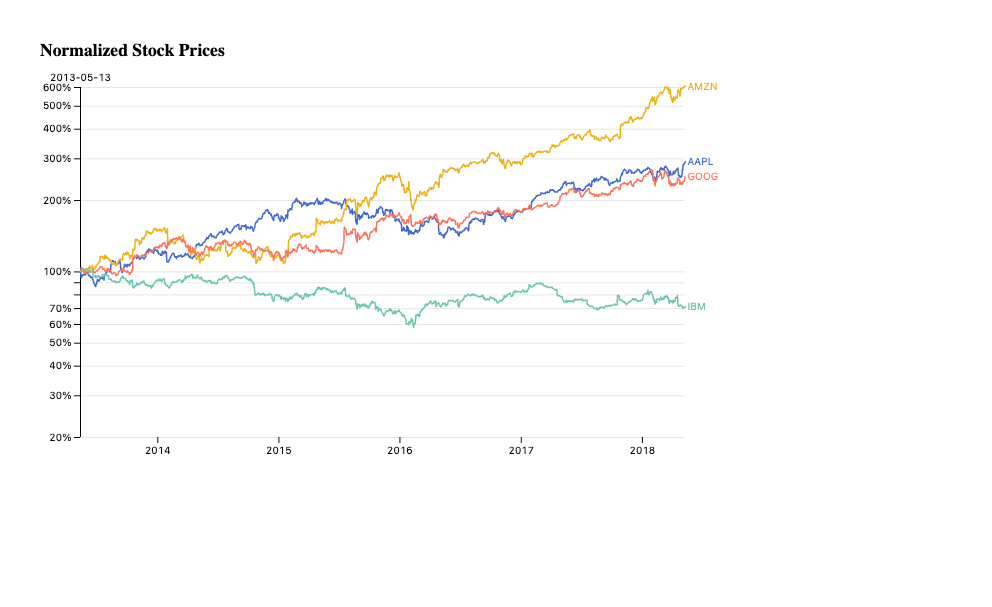
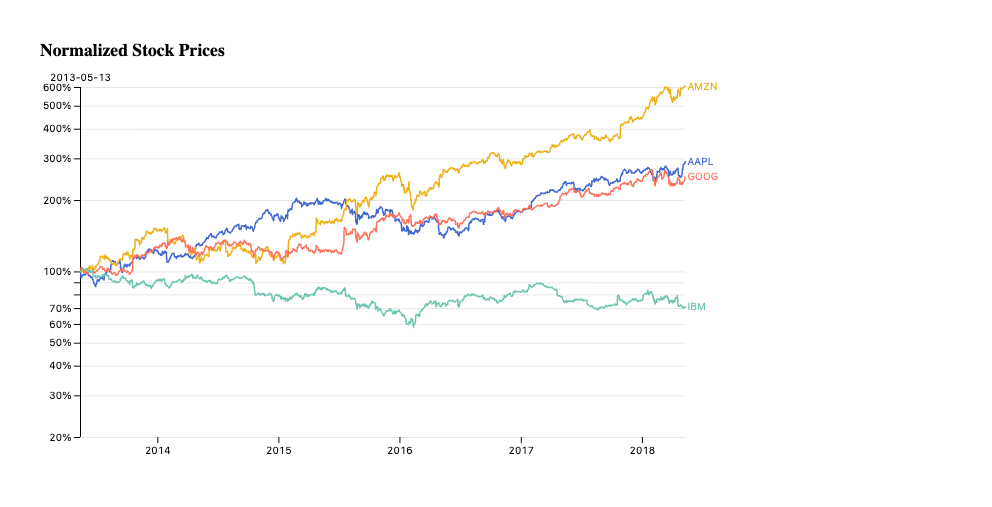
Fix deployed pkgdown site's 404ing home-page widgets

diff --git a/examples/NOTES.md b/examples/NOTES.md
@@ -4,7 +4,7 @@ Each example recreates a page from <https://idl.uw.edu/mosaic/examples/>.
 Verification method: build the R spec, then compare `to_json(spec)`
 against the "JSON" tab on the corresponding mosaic example page (rather
 than rendering, per instruction -- rendering/visual verification is done
-separately). Data comes from `vg_data_url("<file>")` (mosaic's own
+separately). Data comes from `vg_example_url("<file>")` (mosaic's own
 `data/` directory on GitHub) rather than a local copy.
 
 The `.qmd` files themselves now live in `vignettes/articles/` (flat,
@@ -193,7 +193,7 @@ All ten are covered by new tests (`test-merge.R`, `test-plot-defaults.R`,
 ## Examples
 
 Status key: ✅ JSON matches (aside from the cosmetic differences above and
-the intentional `vg_data_url()` vs. relative-path difference) · ⚠ gap/issue
+the intentional `vg_example_url()` vs. relative-path difference) · ⚠ gap/issue
 noted below.
 
 ### Basic Marks & Inputs
@@ -287,7 +287,7 @@ All 47 examples across all 5 gallery categories (Basic Marks & Inputs,
 Data Transformation, Maps & Spatial Data, Multi-View Coordination,
 Density Visualizations) are recreated, and each one's `to_json()`
 output was verified to match mosaic's own reference JSON exactly (aside
-from the intentional `vg_data_url()` vs. relative-path difference and
+from the intentional `vg_example_url()` vs. relative-path difference and
 cosmetic object-key ordering). Along the way, this exercise found and
 fixed 10 real vgplotr bugs (see above), all covered by new regression
 tests, with the full test suite green throughout.

diff --git a/pkgdown/index.md b/pkgdown/index.md
@@ -3,7 +3,7 @@
 
 <!-- README.md is generated from README.Rmd. Please edit that file -->
 
-# {vgplotr}: An R interface to Mosaic vgplot
+# vgplotr: An R interface to Mosaic vgplot
 
 ## What is Mosaic?
 
@@ -30,8 +30,8 @@ Observable Plot to render SVG output.
 
 ## Bringing Mosaic to R
 
-The goal of {vgplotr} is to bring Mosaic functionality to R in a way
-that feels familiar to R users.
+The goal of vgplotr is to bring Mosaic functionality to R in a way that
+feels familiar to R users.
 
 ``` r
 library(vgplotr)
@@ -40,6 +40,9 @@ Births2015 |>
   vg_mark_line(x = ~date, y = ~births, stroke = ~wday) |>
   vg_meta(title = "US Births in 2015") |>
   vg_render(mode = vg_render_mode)
+#> Warning: Data source 'data1' has ordered factor column(s) (wday) -- their level
+#> order isn't preserved when rendered. Set the matching scale's domain explicitly
+#> (e.g., x_domain = levels(data1$wday)) if the order matters.
 ```
 
 <iframe src="reference/figures/README-unnamed-chunk-6-1.html" width="992" height="744" style="border: none;" loading="lazy">
@@ -47,7 +50,7 @@ Births2015 |>
 </iframe>
 
 Here is an example that shows some of the interactive capabilities of
-{vgplotr}:
+vgplotr:
 
 ``` r
 library(vgplotr)
@@ -64,7 +67,7 @@ vg_create() |>
       "in response."
     )
   ) |>
-  vg_data(name = "stocks", file = vg_data_url("stocks.parquet")) |>
+  vg_data(name = "stocks", file = vg_example_url("stocks.parquet")) |>
   vg_data(
     name = "labels",
     query = "SELECT MAX(Date) as Date, ARGMAX(Close, Date) AS Close, Symbol FROM stocks GROUP BY Symbol"

diff --git a/README.md b/README.md
@@ -38,6 +38,9 @@ Births2015 |>
   vg_mark_line(x = ~date, y = ~births, stroke = ~wday) |>
   vg_meta(title = "US Births in 2015") |>
   vg_render(mode = vg_render_mode)
+#> Warning: Data source 'data1' has ordered factor column(s) (wday) -- their level
+#> order isn't preserved when rendered. Set the matching scale's domain explicitly
+#> (e.g., x_domain = levels(data1$wday)) if the order matters.
 ```
 
 <img src="man/figures/README-unnamed-chunk-2-1.png" alt="" width="100%" />
@@ -60,7 +63,7 @@ vg_create() |>
       "in response."
     )
   ) |>
-  vg_data(name = "stocks", file = vg_data_url("stocks.parquet")) |>
+  vg_data(name = "stocks", file = vg_example_url("stocks.parquet")) |>
   vg_data(
     name = "labels",
     query = "SELECT MAX(Date) as Date, ARGMAX(Close, Date) AS Close, Symbol FROM stocks GROUP BY Symbol"
